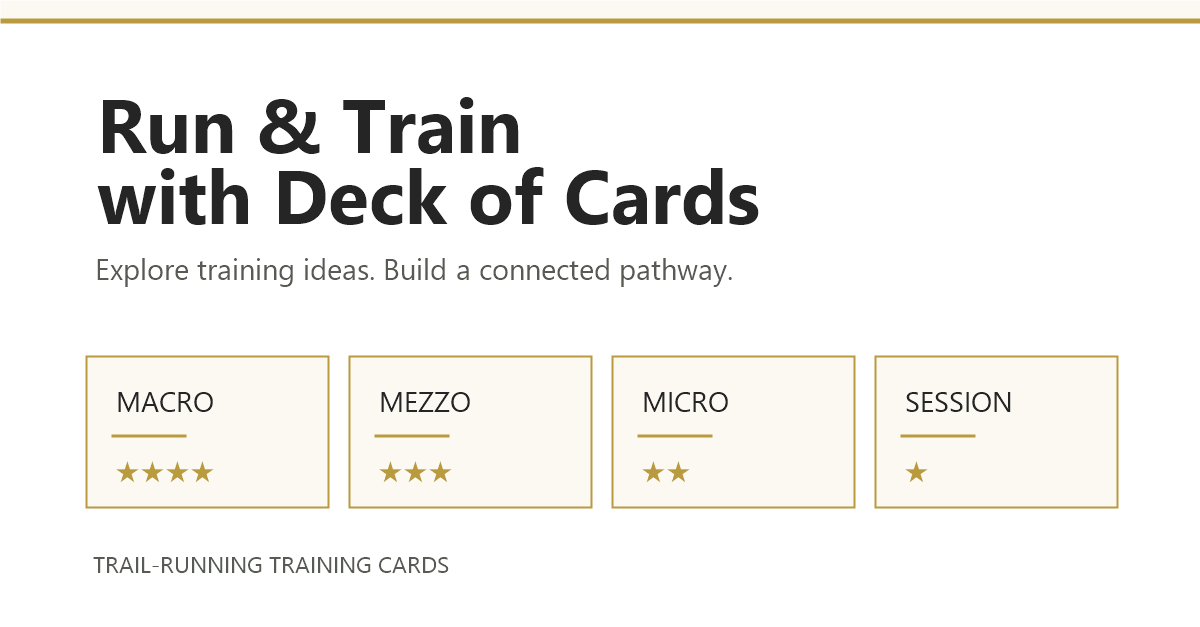
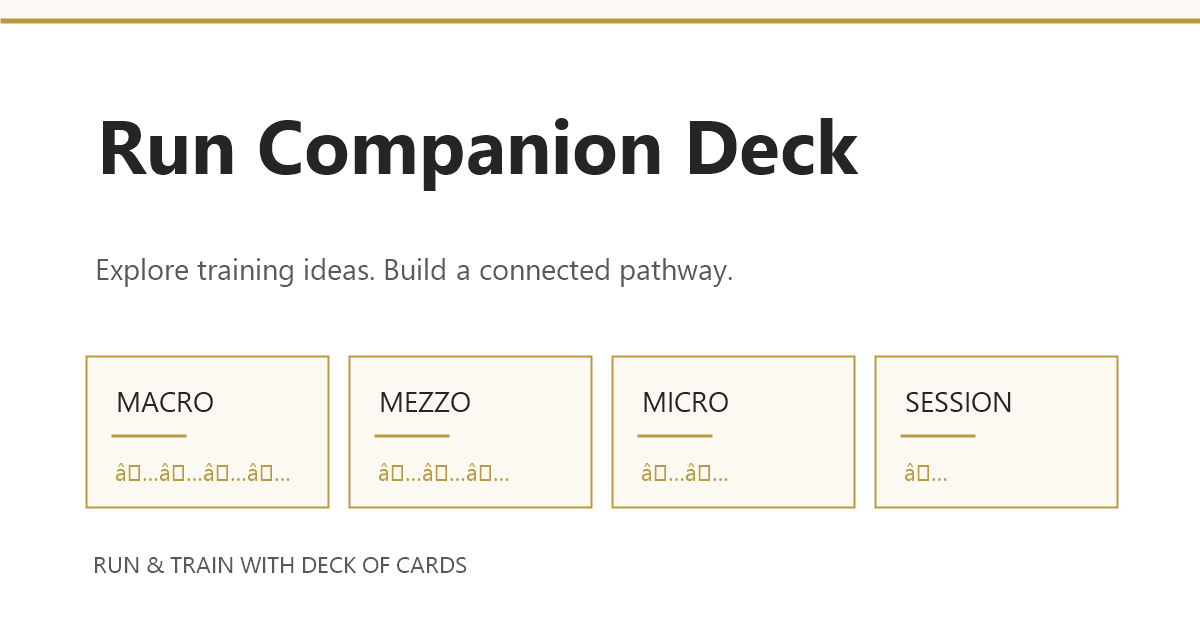
Apply Run Companion Deck branding

diff --git a/vite_app/index.html b/vite_app/index.html
@@ -9,10 +9,10 @@
       name="description"
       content="Explore trail-running training cards and build a connected training pathway."
     />
-    <title>Run &amp; Train with Deck of Cards</title>
+    <title>Run Companion Deck</title>
     <meta property="og:type" content="website" />
     <meta property="og:site_name" content="Run Companion Deck" />
-    <meta property="og:title" content="Run &amp; Train with Deck of Cards" />
+    <meta property="og:title" content="Run Companion Deck" />
     <meta property="og:description" content="Explore trail-running training cards and build a connected training pathway." />
     <meta property="og:url" content="https://run-companion-deck.netlify.app/" />
     <meta property="og:image" content="https://run-companion-deck.netlify.app/share-preview.png" />

diff --git a/vite_app/src/styles.css b/vite_app/src/styles.css
@@ -25,6 +25,7 @@ button:focus-visible, input:focus-visible, summary:focus-visible { outline: 2px 
 
 .app-shell, .load-state { width: min(100% - 2rem, 92rem); margin: 0 auto; padding: 3.1rem 0 4rem; }
 .app-header { position: relative; }
+.app-subtitle { margin: 0.2rem 0 0; color: var(--muted-ink); font-size: 0.98rem; text-align: center; }
 h1 { margin: 0; color: var(--ink); font-family: "Source Sans Pro", sans-serif; font-size: clamp(2.1rem, 3.5vw, 2.75rem); font-weight: 700; letter-spacing: -0.035em; line-height: 1.2; text-align: center; }
 .app-card-count { margin-top: 0.9rem; color: var(--muted-ink); font-size: 0.9rem; text-align: center; }
 .mode-navigation-row { position: relative; display: flex; align-items: center; justify-content: center; max-width: 980px; margin: 1.9rem auto 2rem; }

diff --git a/vite_app/src/App.tsx b/vite_app/src/App.tsx
@@ -376,6 +376,7 @@ export default function App() {
     <main className="app-shell">
       <header className="app-header">
         <h1>{APP_TITLE}</h1>
+        <p className="app-subtitle">Run &amp; Train with Deck of Cards</p>
         <div className="app-card-count">{countLine}</div>
         <div className="mode-navigation-row">
           <nav className="mode-navigation" aria-label="App mode">

diff --git a/vite_app/src/types.ts b/vite_app/src/types.ts
@@ -54,7 +54,7 @@ export interface WebLibraryData {
   philosophies: Record<string, PhilosophyProfile>;
 }
 
-export const APP_TITLE = "Run & Train with Deck of Cards";
+export const APP_TITLE = "Run Companion Deck";
 export const APP_MODES = [
   "Browse cards",
   "Today session",
